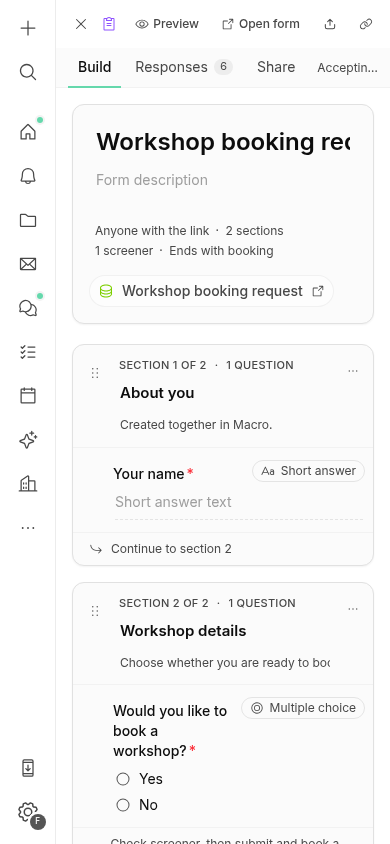
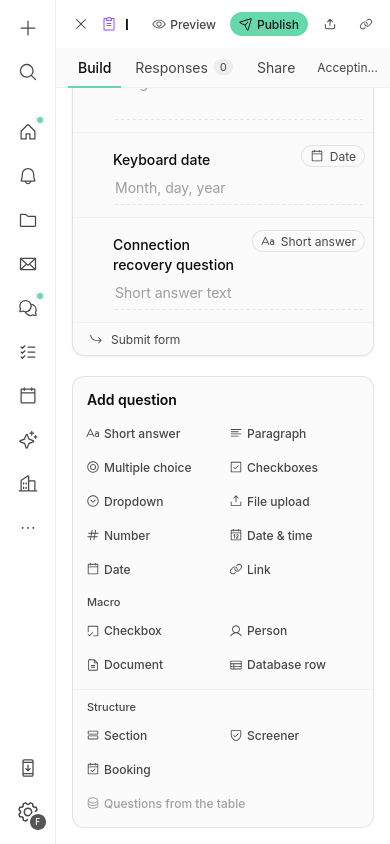
docs(forms): record compact palette browser checks

diff --git a/compact-palette-review.md b/compact-palette-review.md
@@ -1,0 +1,34 @@
+# Compact question palette review
+
+Revision: `3afc530b1d` · 6 October 2026
+
+## Change and conventions
+
+The question palette uses one panel, native ghost buttons in two columns, and a divider before structure controls. Icons remain left of full, single-line labels. No drag handlers, permission checks, data mutations, or dependencies changed. The loading skeleton and Forms agent guide match the new density.
+
+Compared with the previous build in Firefox at 1440 × 1000, the panel shrank from 715.6 px to 452.2 px (37%). All 14 question types remain visible. Desktop buttons are 32 px high; native touch sizing gives 36 px targets.
+
+## Browser verification
+
+Own headless Chromium and Firefox against `https://wolf-macro-google:35109/app/`, using the local backend and a dedicated test form:
+
+- All 14 labels fit fully, with every icon to the left, in both browsers.
+- Dragging Short answer into the canvas created exactly one question at the insertion line.
+- Clicking Paragraph and keyboard Enter on Date each inserted one question.
+- Dragging Section created one section; Escape during a Number drag created nothing.
+- A Chromium touch long-press and drag inserted Link; the question survived reload.
+- Changes appeared in the other browser, and the saved dragged question survived reload.
+- At widths 1440, 1024 and 390, the page had no horizontal overflow. The mobile palette had no clipped labels.
+- The existing Workshop booking request form loaded with the compact palette.
+- No page errors in either browser.
+
+The first cross-browser text assertion needed `.first()` because the question appears in both the outline and canvas; correcting that test selector confirmed persistence.
+
+## Automated checks
+
+- Forms suite: 439 passed, 1 skipped, 43 files.
+- Final builder/drag/title-card rerun: 37 passed, 3 files.
+- TypeScript, final Vite build, `just check`, `cargo fmt --all -- --check`, `cargo x kafka-topics --check`, and `git diff --check` passed.
+- Existing repository warnings remained non-failing. CI for the new revision was triggered by the push; the preceding revision had fully green CI.
+
+The new frontend was installed atomically without restarting services or changing stored form data outside the dedicated test form. Existing hashed assets remain available to open tabs.
